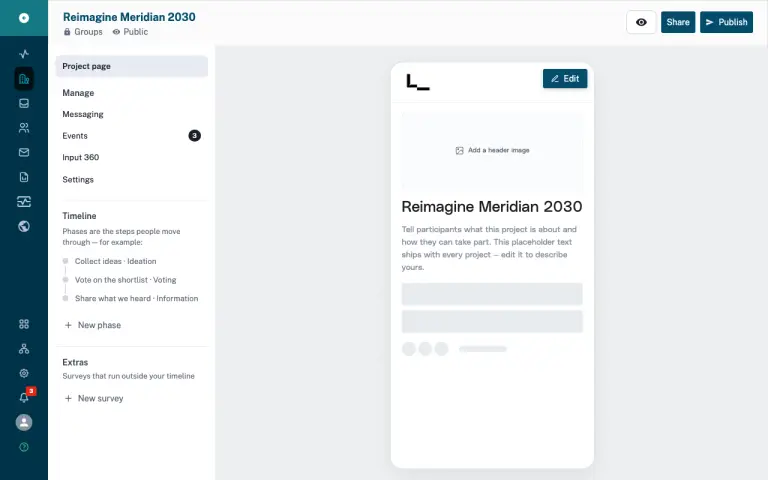
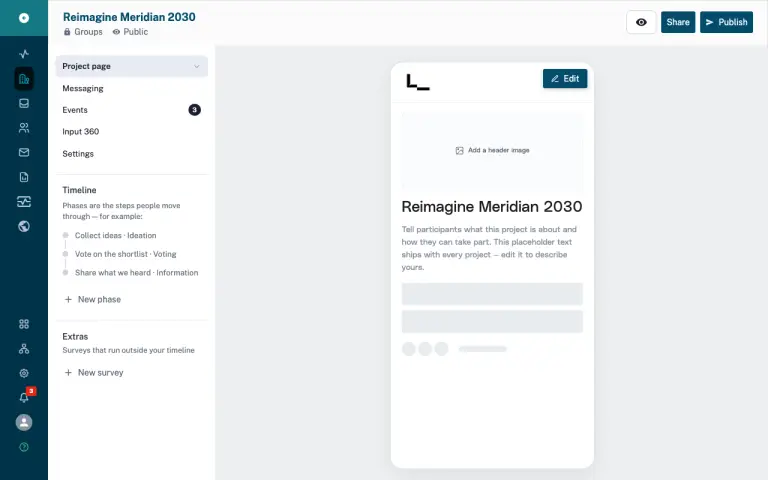
back-office-test: default project nav to NAV option 5 (current chevron disclosure)

Changed region(s): [[0.0625, 0.1562, 0.25, 0.8438], [0.25, 0.2188, 0.2812, 0.3125]]

diff --git a/parallel-participation/prototypes/back-office-test/index.html b/parallel-participation/prototypes/back-office-test/index.html
@@ -2352,7 +2352,7 @@
 </style>
 </head>
 <body class="gv-bo min-h-screen" data-gv-theme-picker="off">
-<div class="gv-bo-shell is-rail" data-nav-mode="1">
+<div class="gv-bo-shell is-rail" data-nav-mode="5">
 
   <!-- ── Real GoVocal back-office sidebar (collapsed icon rail) ──── -->
   <nav class="gv-bo-side is-rail" aria-label="Admin">
@@ -2432,7 +2432,7 @@
     <!-- Left side panel: project + phases -->
     <section class="flex flex-col bg-white border-r border-gray-200" style="width:280px;">
       <!-- nav -->
-      <div id="proj-nav" class="flex-1 overflow-y-auto px-3 py-4" data-nav-mode="1">
+      <div id="proj-nav" class="flex-1 overflow-y-auto px-3 py-4" data-nav-mode="5">
 
         <!-- Text-led project menu (committed direction): no icons — labels carry the meaning.
              The icon-only blue rail keeps its icons (it has no labels). Explorer with all the
